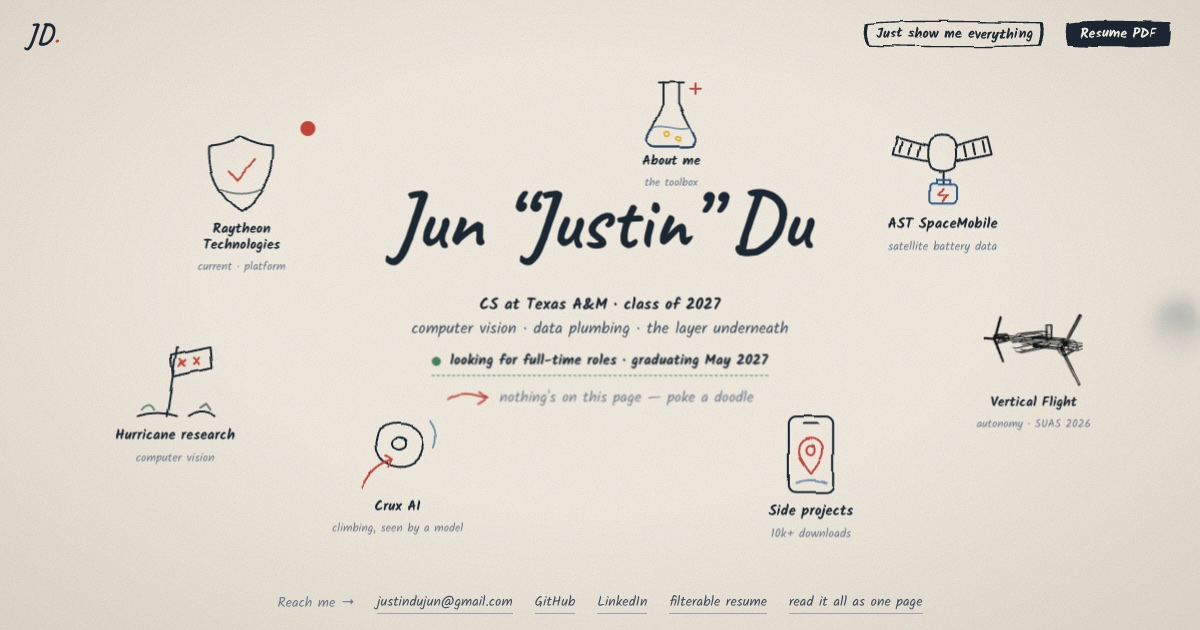
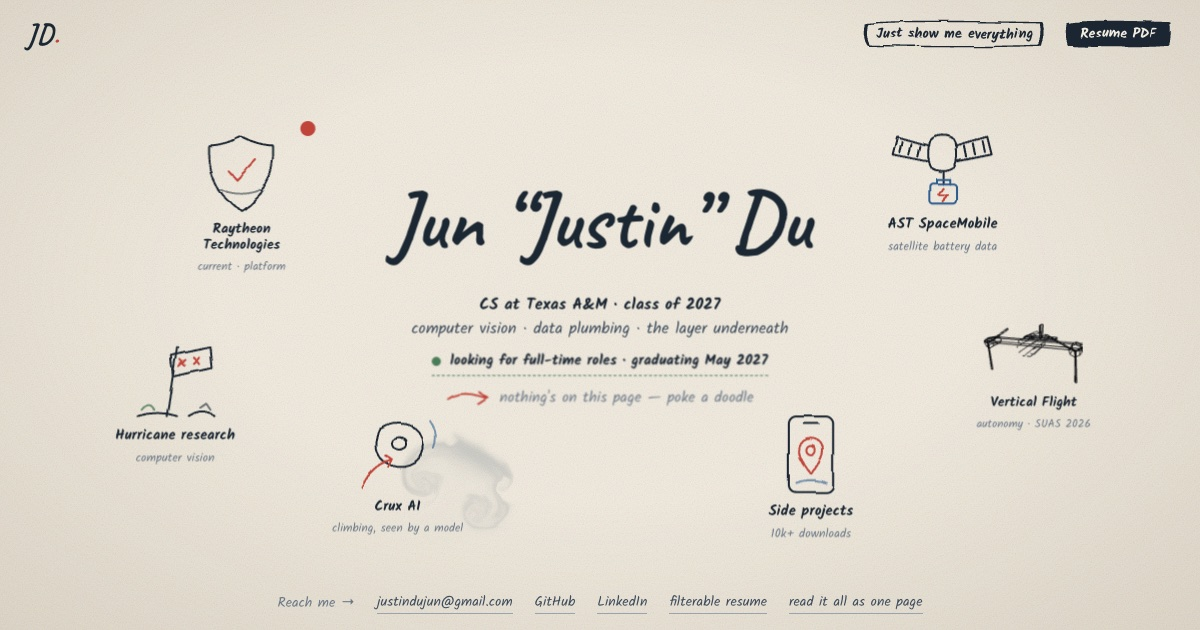
Edits towards minor changes in the website

diff --git a/index.html b/index.html
@@ -243,13 +243,6 @@
     40%{transform:translateX(-3px) rotate(-1.5deg);} 56%{transform:translateX(3px) rotate(1.5deg);}
     72%{transform:translateX(-2px);} 86%{transform:translateX(2px);}
   }
-  /* the beaker tips and pours */
-  .act-about{animation:pour .84s cubic-bezier(.35,1.2,.4,1); transform-origin:50% 88%;}
-  @keyframes pour{
-    0%{transform:rotate(0);} 34%{transform:rotate(-26deg);}
-    64%{transform:rotate(12deg);} 100%{transform:rotate(0);}
-  }
-
   /* ── Panel ── */
   #panelRoot{
     position:fixed; inset:0; z-index:60; display:none;
@@ -391,7 +384,7 @@
     .sheet{padding:96px 22px 110px;}
   }
   @media (min-width:640px) and (max-width:1100px), (min-width:640px) and (max-height:620px){
-    #scene{grid-template-columns:repeat(4,1fr);}
+    #scene{grid-template-columns:repeat(3,1fr);}
   }
   /* Small phones: the top bar has to fit two buttons and the mark. */
   @media (max-width:480px){
@@ -629,36 +622,6 @@
     <div class="chips" data-chips="React Native,TypeScript,React,Node.js,Flutter,Dart"></div>
   </article>
 
-  <article class="sheet" data-key="about">
-    <div class="kicker">The person</div>
-    <h2>Who's drawing this</h2>
-    <p class="where">B.S. Computer Science · Texas A&amp;M University</p>
-    <p class="when">Expected May 2027 · GPA 3.71</p>
-    <p class="lede">The pattern across everything above is the same: take something unstructured — hurricane imagery, climbing video, a firehose of battery test data — and turn it into something an engineer can act on. Sometimes that's a model. Sometimes it's a dashboard, an ETL pipeline, or <em>a circuit board</em>.</p>
-    <div class="aside">Right now: platform engineering co-op at Raytheon — and <b>looking for full-time roles</b> for after I graduate in May 2027. <a class="morelink" href="mailto:justindujun@gmail.com?subject=Full-time%20role">Say hi →</a></div>
-    <div class="nums">
-      <div class="num"><b>3.71</b><span>cumulative GPA</span></div>
-      <div class="num"><b>2027</b><span>expected graduation</span></div>
-      <div class="num"><b>3</b><span>scholarships</span></div>
-    </div>
-    <ul>
-      <li>Texas Leadership Scholar · Regent Scholar · Houston Livestock Show &amp; Rodeo Scholarship</li>
-      <li>Aggie Coding Club · Data Science Club · Data Science Hackathon</li>
-      <li>Speaks English and Mandarin Chinese</li>
-    </ul>
-    <h3 style="font-family:var(--hand);font-size:2rem;margin:36px 0 14px;">The toolbox</h3>
-    <p style="font-family:var(--note);font-size:14px;color:var(--ink-3);margin:0 0 8px;">Languages</p>
-    <div class="chips" data-chips="Python,TypeScript,JavaScript,SQL,Java,C#,C++,HTML/CSS"></div>
-    <p style="font-family:var(--note);font-size:14px;color:var(--ink-3);margin:20px 0 8px;">AI / ML</p>
-    <div class="chips" data-chips="PyTorch,Computer Vision,YOLOv11,OpenCV,MLOps,LLM Integration,Prompt Engineering"></div>
-    <p style="font-family:var(--note);font-size:14px;color:var(--ink-3);margin:20px 0 8px;">Web &amp; frameworks</p>
-    <div class="chips" data-chips="React,Next.js,Node.js,React Native,Flutter,Prisma,Tailwind"></div>
-    <p style="font-family:var(--note);font-size:14px;color:var(--ink-3);margin:20px 0 8px;">Data &amp; cloud</p>
-    <div class="chips" data-chips="ETL / Pipelines,MariaDB,MySQL,AWS,Azure,GCP,Docker,Kubernetes,CI/CD,Linux"></div>
-    <p style="font-family:var(--note);font-size:14px;color:var(--ink-3);margin:20px 0 8px;">Tools</p>
-    <div class="chips" data-chips="Git,Azure DevOps,Pandas,NumPy,Matplotlib,Recharts,Roboflow"></div>
-  </article>
-
 </div>
 
 <script>
@@ -706,14 +669,7 @@ const ART = {
             <path d="M42 18 L58 18"/>
             <path class="hot" d="M50 34 C 58 34, 63 40, 63 47 C 63 57, 50 72, 50 72 C 50 72, 37 57, 37 47 C 37 40, 42 34, 50 34 Z"/>
             <circle class="hot" cx="50" cy="47" r="5"/>
-            <path class="cool" d="M34 82 C 42 78, 58 78, 66 82" opacity=".6"/>`,
-  /* Beaker + notebook → about */
-  about:`<path d="M40 12 L40 40 L20 82 C 17 88, 21 94, 28 94 L72 94 C 79 94, 83 88, 80 82 L60 40 L60 12"/>
-         <path d="M34 12 L66 12"/>
-         <path class="cool" d="M27 70 C 40 64, 60 76, 74 70 L80 82 C 83 88, 79 94, 72 94 L28 94 C 21 94, 17 88, 20 82 Z" opacity=".55"/>
-         <circle class="warm" cx="44" cy="78" r="3"/>
-         <circle class="warm" cx="58" cy="84" r="2.4"/>
-         <path class="hot" d="M74 20 L88 20 M81 13 L81 27"/>`
+            <path class="cool" d="M34 82 C 42 78, 58 78, 66 82" opacity=".6"/>`
 };
 
 /* x / y place each doodle's centre, as a % of the scene; z is real depth. */
@@ -723,8 +679,7 @@ const DOODLES = [
   {key:'vfd',      label:'Vertical Flight',    sub:'autonomy · SUAS 2026',  x:92, y:66, z:-130, w:150, three:true},
   {key:'hrc',      label:'Hurricane research', sub:'computer vision',       x:11, y:72, z:-50,  w:150},
   {key:'crux',     label:'Crux AI',            sub:'climbing, seen by a model', x:31, y:89, z:-80, w:140},
-  {key:'projects', label:'Side projects',      sub:'10k+ downloads',        x:69, y:89, z:-20,  w:130},
-  {key:'about',    label:'About me',           sub:'the toolbox',           x:57, y:13, z:-150, w:120}
+  {key:'projects', label:'Side projects',      sub:'10k+ downloads',        x:69, y:89, z:-20,  w:130}
 ];
 const KEYS = DOODLES.map(d=>d.key);
 
@@ -953,8 +908,7 @@ const INK_BY_KEY = {
   vfd:      {r:0.14, g:0.12, b:0.16},
   hrc:      {r:0.28, g:0.09, b:0.07},
   crux:     {r:0.26, g:0.14, b:0.05},
-  projects: {r:0.09, g:0.18, b:0.14},
-  about:    {r:0.22, g:0.16, b:0.05}
+  projects: {r:0.09, g:0.18, b:0.14}
 };
 
 function reactTo(b){
@@ -997,7 +951,7 @@ document.getElementById('panelScrim').addEventListener('click', goHome);
 const reading = document.getElementById('reading');
 const readingBody = document.getElementById('readingBody');
 const readingClose = document.getElementById('readingClose');
-const ORDER = ['about','rtx','ast','vfd','hrc','crux','projects'];
+const ORDER = ['rtx','ast','vfd','hrc','crux','projects'];
 
 function showReading(){
   if(reading.classList.contains('open')) return;
